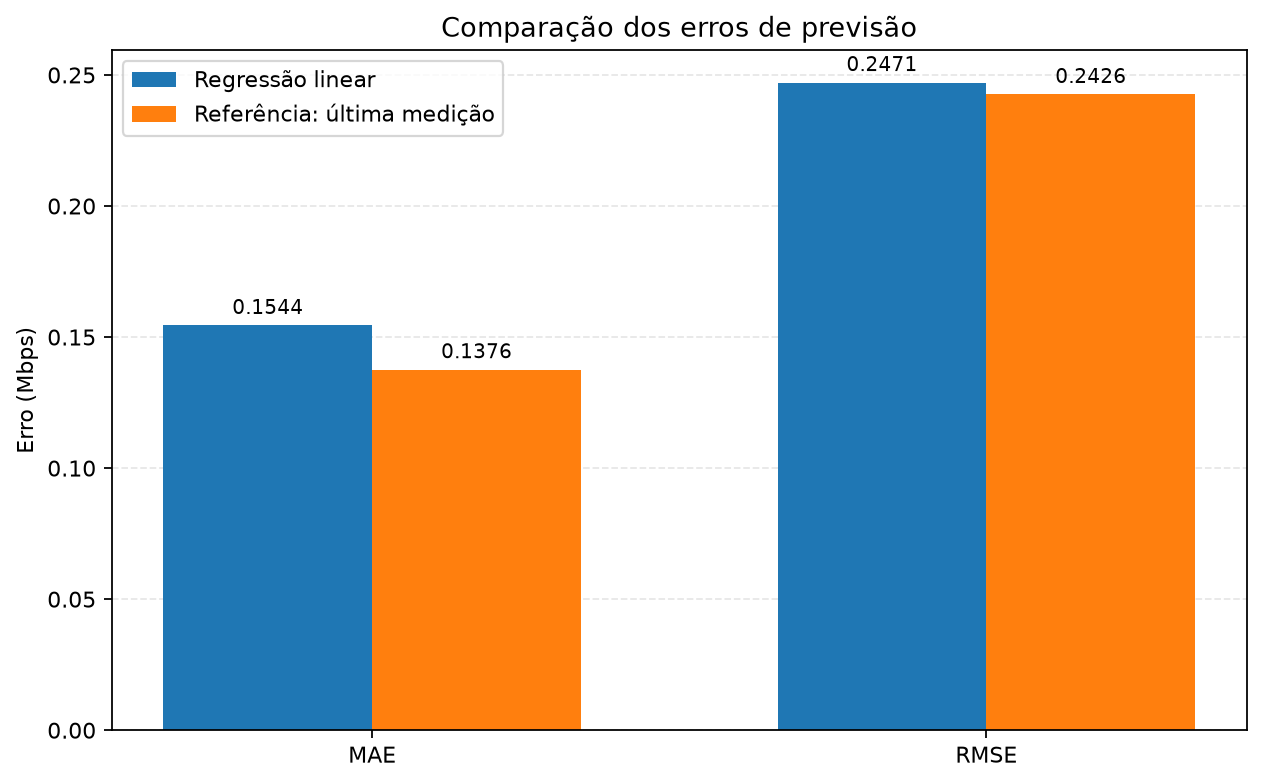
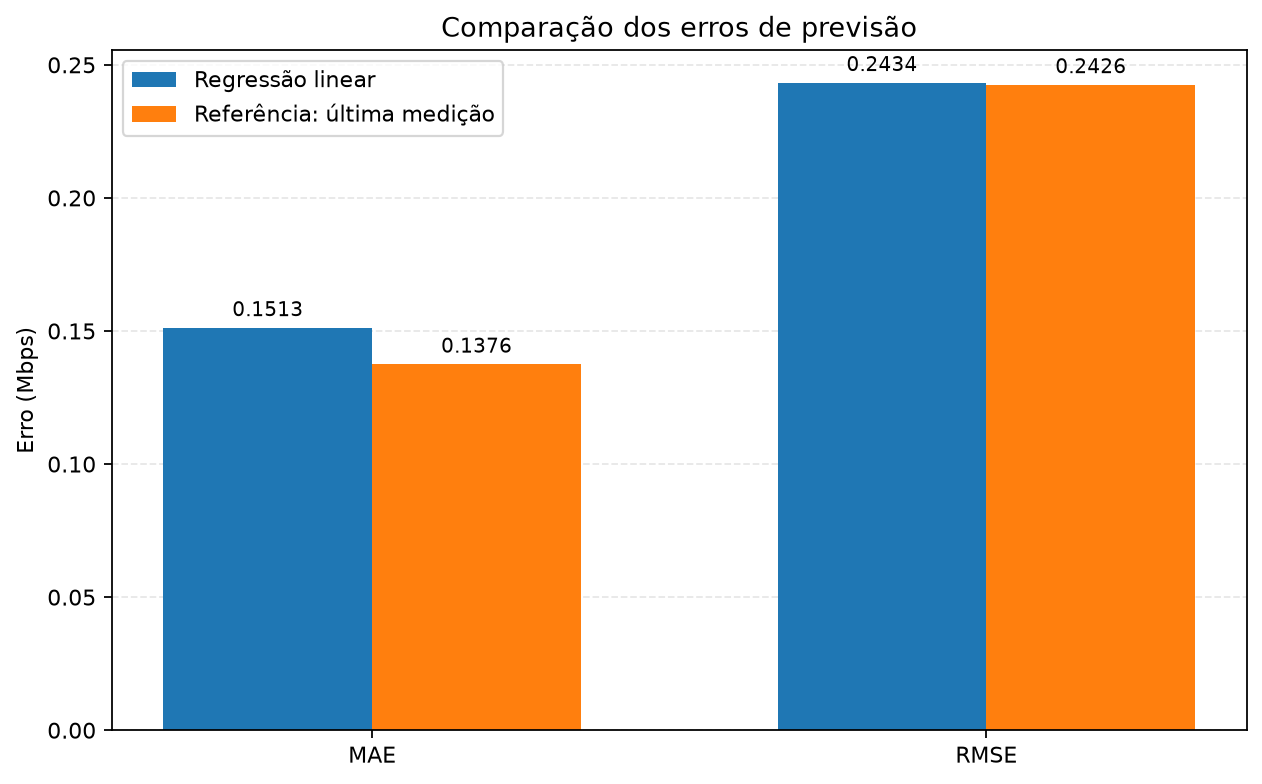
feat(banda): simplifica regressao linear para uma entrada

diff --git a/projeto_banda/src/treinar_modelo.py b/projeto_banda/src/treinar_modelo.py
@@ -24,9 +24,7 @@ def main():
 
     # Usamos somente as três medições anteriores como entradas.
     features = [
-        "throughput_t_1",
-        "throughput_t_2",
-        "throughput_t_3",
+    "throughput_t_1",
     ]
 
     X_treino = treino[features]
